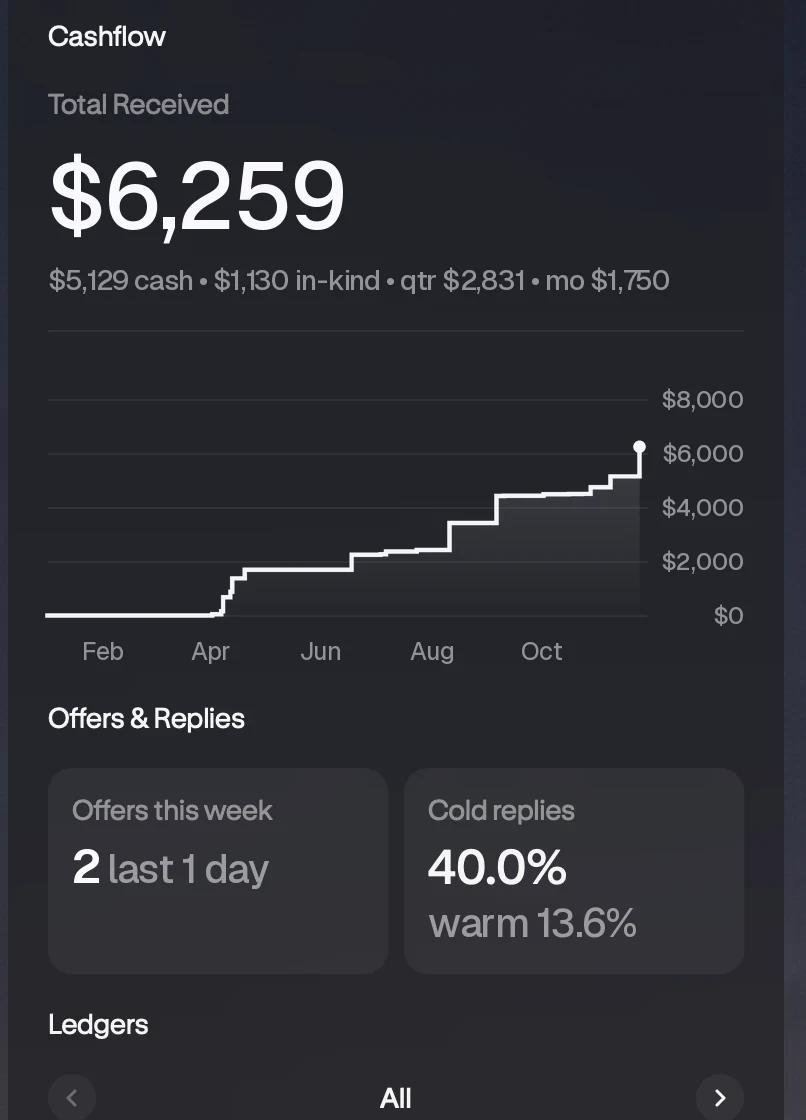
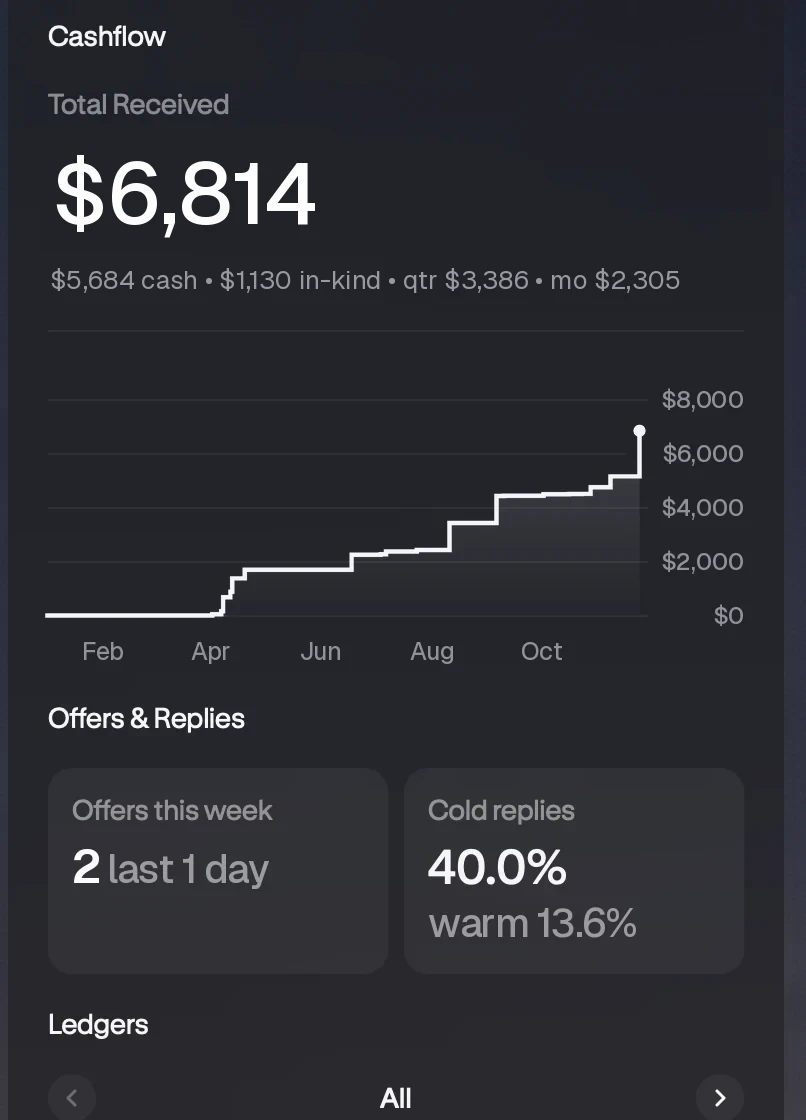
Revenue: current received figure $6,814 (as of 2026-11-24, source: CRM v6.23)
Names-free totals only. Strict received $6,259 -> $6,814 ($5,684 cash + $1,130 in-kind); tracked incl. rev-share contract $6,536 -> $7,091. The latest payment is counted on Sasha's word, bank confirmation pending.
- VentureDashboard: KPI value/subline/day trend/tracked detail; Nov 24 chart point 6536 -> 7091
- InvestorRoom: $6,259 -> $6,814
- roadmap Revenue row, cohort_clarity_brief, cohort_clarity_brief_5k, million_pathway_brief
- public/images/cockpit/cashflow.webp: same 806x1120 layout, total, cash/in-kind/qtr/mo line and last step redrawn locally

diff --git a/src/pages/VentureDashboard.tsx b/src/pages/VentureDashboard.tsx
@@ -48,7 +48,7 @@ const REVENUE_TIMELINE = [
   { day: 223, date: "Oct 23", total: 4786, label: "B. ≈$2 in-kind (barter)" },
   { day: 233, date: "Nov 2", total: 5036, label: "G. $250 extra session (held Oct 28, received Nov 2)" },
   { day: 241, date: "Nov 10", total: 5436, label: "G. $400 pitch session" },
-  { day: 255, date: "Nov 24", total: 6536, label: "First success-based mentorship payment ($1,100) — current as of Nov 24, 2026" },
+  { day: 255, date: "Nov 24", total: 7091, label: "First success-based mentorship payment ($1,100) and a new Unique Business container — current as of Nov 24, 2026" },
 ];
 
 // ─── KPI Data ───────────────────────────────────────────────────────────────
@@ -56,11 +56,11 @@ const REVENUE_TIMELINE = [
 const KPIS = [
   {
     labelKey: "ventureDashboard.kpi.totalRevenue",
-    value: "$6,259",
-    subline: "$5,129 cash · $1,130 in-kind",
-    trend: "+$1,100",
+    value: "$6,814",
+    subline: "$5,684 cash · $1,130 in-kind",
+    trend: "+$1,655",
     trendLabel: "Nov 24",
-    detail: "Tracked relationship revenue: $6,536 ($6,259 + $277 rev share, pending)",
+    detail: "Tracked relationship revenue: $7,091 ($6,814 + $277 rev share, pending)",
     stamp: "as of 2026-11-24 · source: CRM",
     gold: true,
   },

diff --git a/src/pages/InvestorRoom.tsx b/src/pages/InvestorRoom.tsx
@@ -110,7 +110,7 @@ const COPY = {
     kicker: "Live numbers",
     note: "Player counts are read live. Revenue as of November 24, 2026. No names, no personal data.",
     traction: [
-      { value: "$6,259", label: "paid to us since April 2026" },
+      { value: "$6,814", label: "paid to us since April 2026" },
       { value: "11", label: "founders working with us now" },
       { value: "60%", label: "of paying clients bought again" },
     ],

diff --git a/docs/02-strategy/roadmap.md b/docs/02-strategy/roadmap.md
@@ -216,7 +216,7 @@
 | **Cycle** | Day 180 of the active build. Method layer deepened: **Technologies 137-143** (the faculty layer — depth-work vocabulary as faculty evidence; splitting the perception gate from the commercial gate) and **Principles 18-20** (the load order, the Mirror Opener, the hexagram — artifacts make capacities and the cycle turns). Outreach system versioned: matchmaker briefs v3.1 → v4.2, strategy v4.0, ops v2.0, first-session runbook. Commercial OS stale-config bug fixed (Sep 2). |
 | **Holomap center** | Propagation continues — the instrument built over Days 131-166 is now in field use (first cold outreach, Danil Day 177). Transition remains the named arc underneath. Current reading and lineage: `morphogenetic_holomap.md` (Day 180 addendum in this sync's WP5) + `MEMORY.md` holomap line. |
 | **Location** | Mexico City (Sasha). Founder cohort mostly remote. |
-| **Revenue** | **$6,259** strict received (as of 2026-11-24, source: CRM) ($5,129 cash + $1,130 in-kind; + $277 Sergey rev-share contract = **$6,536 tracked**) — per the **Offer Ledger** (`strategic_crm_outreach_tracker.md` → Revenue Summary). The Ledger is the owner; verify there before quoting a figure. Latest: the first success-based mentorship payment ($1,100, 2026-11-24). (Day 180 reading was $4,444 strict / $4,721 tracked.) (Karime paying Sasha for her own session is counted here; her separate client-practice income is hers, not counted.) |
+| **Revenue** | **$6,814** strict received (as of 2026-11-24, source: CRM v6.23) ($5,684 cash + $1,130 in-kind; + $277 Sergey rev-share contract = **$7,091 tracked**; ~~$6,259 / $6,536~~ earlier the same day) — per the **Offer Ledger** (`strategic_crm_outreach_tracker.md` → Revenue Summary). The Ledger is the owner; verify there before quoting a figure. Latest: the first success-based mentorship payment ($1,100, 2026-11-24) and a new Unique Business container (2026-11-24; counted on Sasha's word, bank confirmation pending). (Day 180 reading was $4,444 strict / $4,721 tracked.) (Karime paying Sasha for her own session is counted here; her separate client-practice income is hers, not counted.) |
 | **Focus** | Run the three-stream outreach and convert the first cold conversations. Deliver Gleb's The Crossing. Complete the corpus-sync (this SoW — WP3-WP6). Quiz Phase 2 → Phase 3 retrodiction still open. |
 | **Key decisions** | Hexagram order **A** — strategy begets fit (`D-2026-09-10-01`). The faculty layer named (Technology 138); the perception gate split from the commercial gate (Technology 139). Tribe is three streams plus "the cross," not one bullseye. Recursive value flow as the governing transaction model (`D-2026-08-25-01`). |
 

diff --git a/docs/02-strategy/cohort_clarity_brief.md b/docs/02-strategy/cohort_clarity_brief.md
@@ -42,7 +42,7 @@ Alexander Konstantinov (goes by Sasha) has a two-hour session that takes a found
 
 ## 4. Established facts (do not contradict these)
 
-- Total revenue received to date is **$6,259** (as of 2026-11-24, source: CRM). This is real money from real clients, not projections. Do not inflate it and do not describe the business as pre-revenue.
+- Total revenue received to date is **$6,814** (as of 2026-11-24, source: CRM). This is real money from real clients, not projections. Do not inflate it and do not describe the business as pre-revenue.
 - Roughly **nine client canvases** exist for named individuals who went through the method.
 - **One full program container has sold and is in delivery**: a two-month, eight-session container at $2,000, half paid up front, currently mid-delivery. This is the proof that a multi-week container converts, not just a single session.
 - **A second practitioner is delivering with the method** under her own practice, roughly twelve client sessions in a recent month. Her clients and income are hers, not counted in the figures above. This is the only existing evidence that the method transfers to another human.

diff --git a/docs/02-strategy/million_pathway_brief.md b/docs/02-strategy/million_pathway_brief.md
@@ -54,7 +54,7 @@ Two ledgers. While bootstrapping the share routes to him personally. Past a node
 
 ## Facts (do not contradict)
 
-- Revenue to date: **$6,259** (as of 2026-11-24, source: CRM). Real, not pre-revenue. Never inflate.
+- Revenue to date: **$6,814** (as of 2026-11-24, source: CRM). Real, not pre-revenue. Never inflate.
 - Nine client canvases. One $2,000 container sold and mid-delivery. The method has run end to end in Russian as well as English.
 - **A second practitioner already delivers the method** under her own brand. The branch is proven once, and it happened without being sold to her.
 - **Distribution is the constraint.** Community hosts with cohorts are the answer.

diff --git a/docs/02-strategy/cohort_clarity_brief_5k.md b/docs/02-strategy/cohort_clarity_brief_5k.md
@@ -22,7 +22,7 @@ His known weakness, which this plan can feed: he builds ever-larger structure wh
 
 ## Facts (do not contradict)
 
-- Revenue to date: **$6,259** (as of 2026-11-24, source: CRM). Real money, not pre-revenue. Do not inflate.
+- Revenue to date: **$6,814** (as of 2026-11-24, source: CRM). Real money, not pre-revenue. Do not inflate.
 - ~9 client canvases exist. One $2,000 two-month container is sold and mid-delivery.
 - **A second practitioner delivers with the method** under her own brand, ~12 sessions in a recent month. This is the only evidence it transfers to another human.
 - The method has run start to finish in Russian as well as English.
